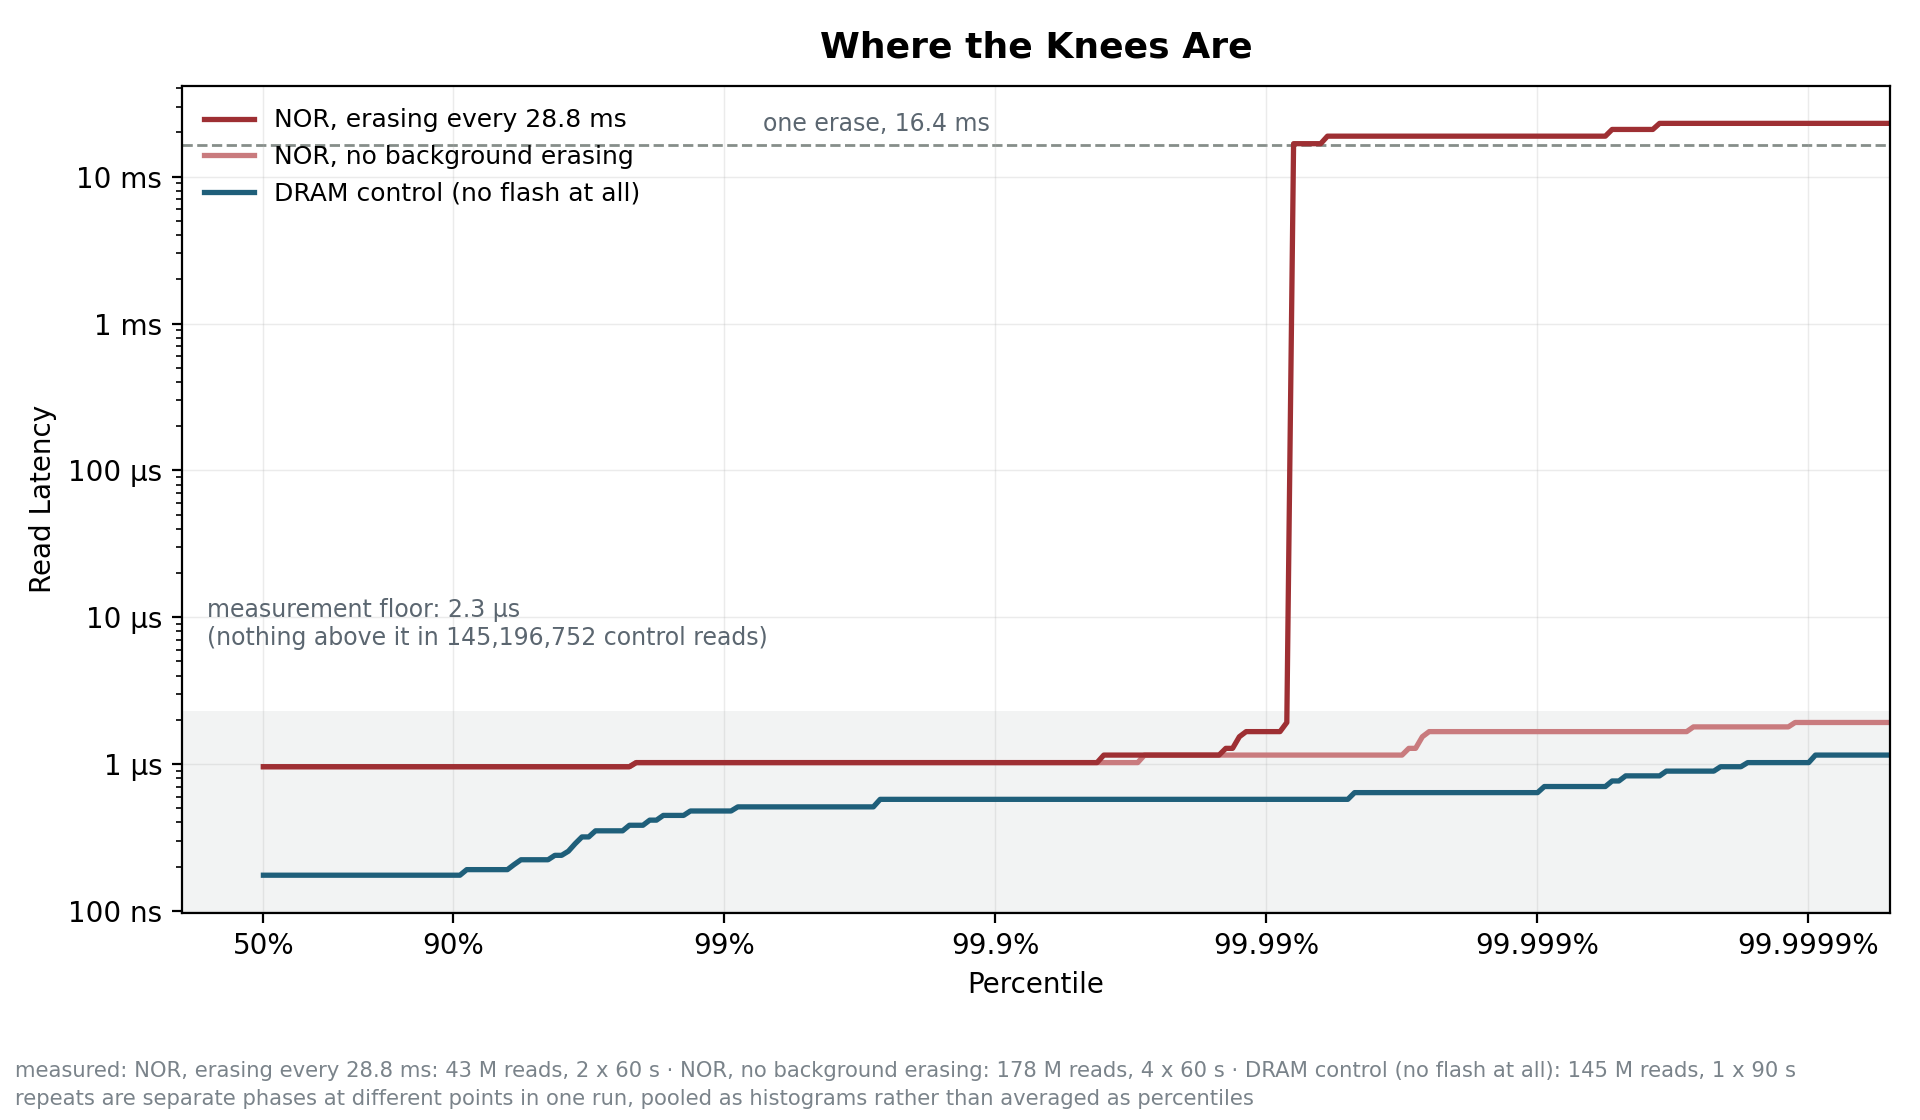
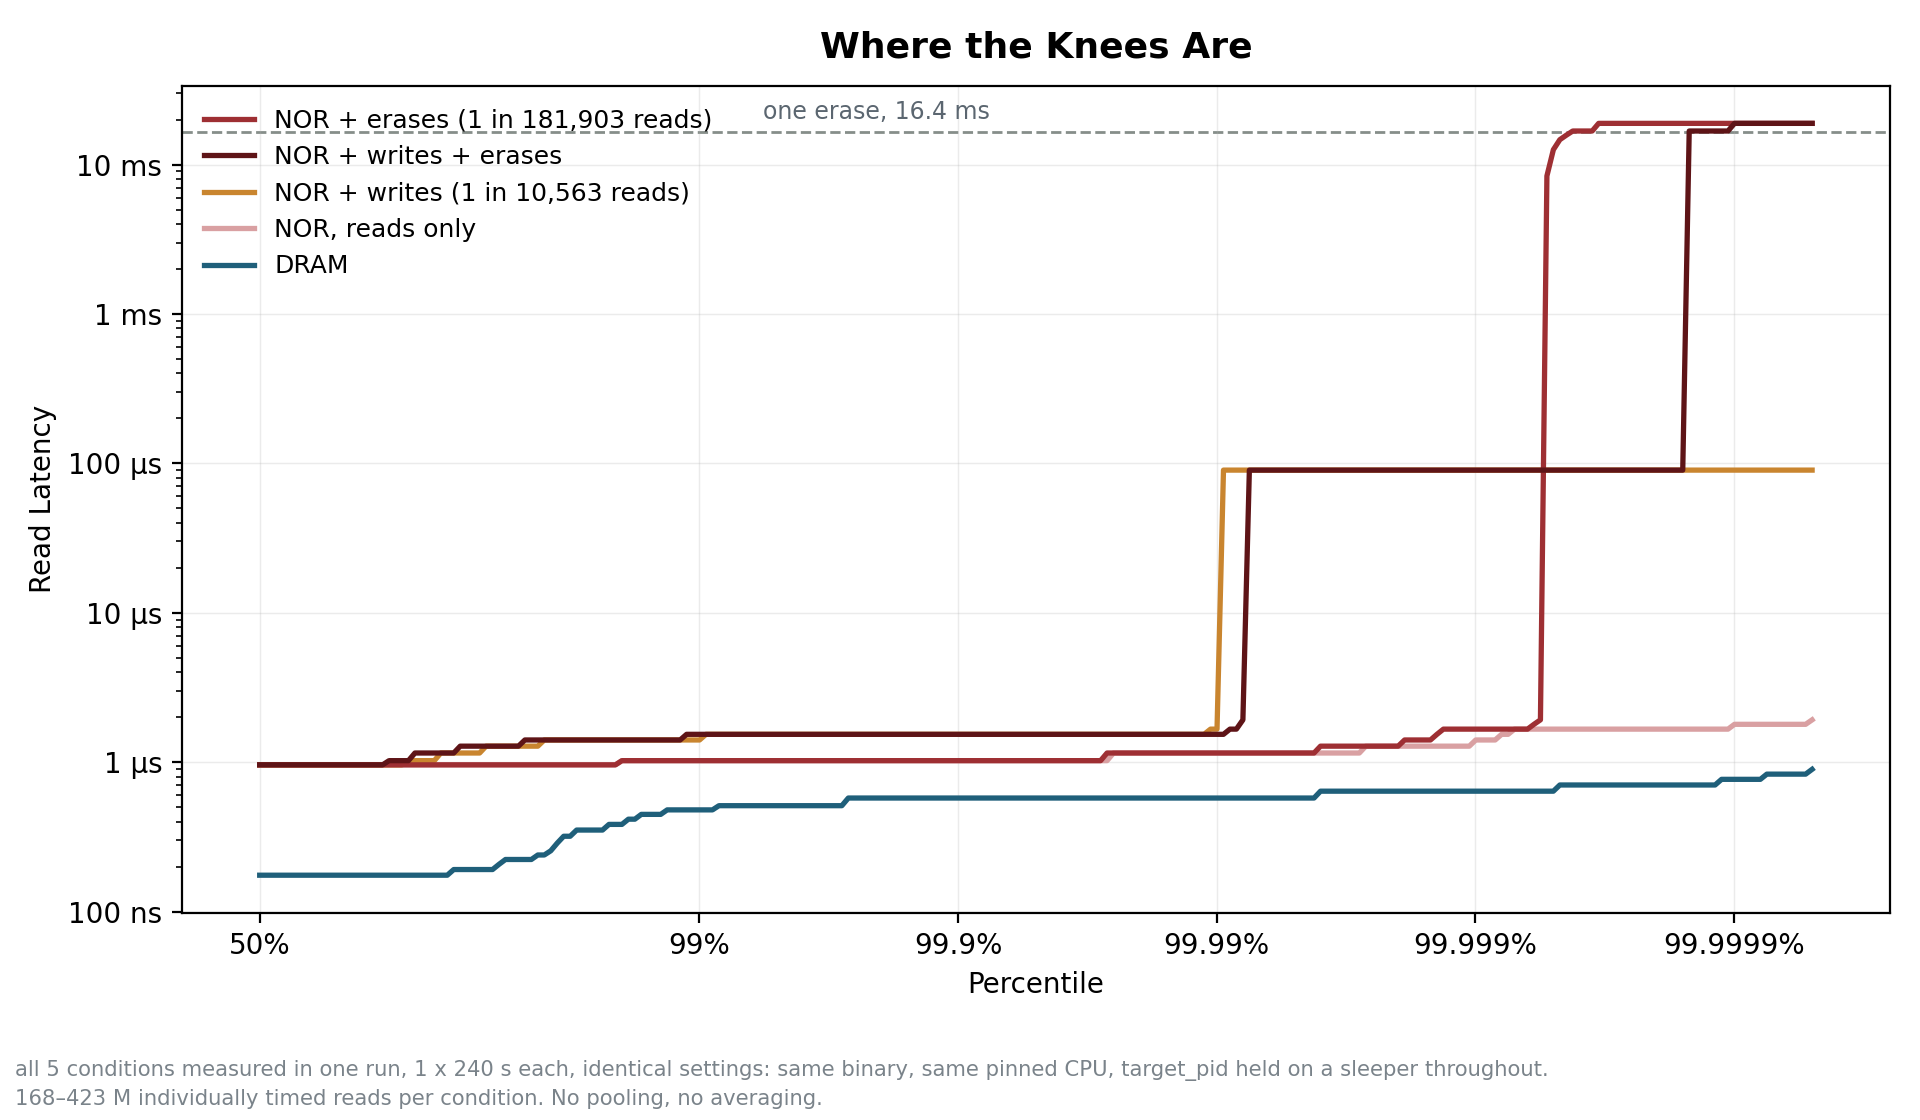
fig9/9b: five conditions, and the model they reveal
condition            p50    p99.99  p99.999  p99.9999      max
  DRAM              175 ns    575 ns   639 ns    767 ns   2.3 us
  NOR reads only    959 ns    1.2 us   1.4 us    1.8 us   2.8 us
  NOR + writes      959 ns    1.7 us  90.1 us   90.1 us  98.3 us
  NOR + erases      959 ns    1.2 us   1.7 us   18.9 ms  23.1 ms
  NOR + both        959 ns    1.5 us  90.1 us   16.8 ms  23.1 ms

Two rules, and between them they explain every number above.

WHERE a knee appears is how often the operation happens. Writes at 1 in 10,563
surface at p99.99; erases at 1 in 181,903 not until p99.9999. Same device, and
the erase knee is later purely because 30 ms spacing makes erases 17x rarer
than writes in this configuration.

HOW HIGH it goes is the uninterruptible unit. A 4 KiB program is 16 x 256 B
chunks: 1.13 ms measured, 70.6 us per chunk, and a concurrent read waits
90.1 us -- one chunk, not the page. It gets through between chunks. An erase
has no such granularity, so the read waits all 22.3 ms of it. That is the
entire asymmetry between 8% and 100% interference, and it comes from the
device programming granularity rather than from anything in the policy.

Colour is now intensity within the flash conditions, since all four are the
same medium: palest is quiet flash, darkest is writing and erasing together.

diff --git a/scripts/plot_selftest.py b/scripts/plot_selftest.py
@@ -541,21 +541,23 @@ if r:
     # -- which is NOR -- wore the DRAM blue. Both NOR conditions are now shades
     # of the NOR red, DRAM is the DRAM blue, and the difference between the two
     # NOR curves is what the engine is doing, not what the medium is.
-    NOR_QUIET = "#C97B7E"          # NOR, nothing erasing
-    LABEL = {"dram_control":    (C_DRAM,    "DRAM control (no flash at all)"),
-             "engine_off":      (NOR_QUIET, "NOR, no background erasing"),
-             # Period, not rate: it is the knob, and the rate is the
-             # consequence. 2,080 erases in 60 s = one every 28.8 ms, of which
-             # 22.3 ms is the erase itself. NOT the 30 ms erase_poll_ms
-             # spacing -- that branch only applies when target_pid is attached,
-             # and it was cleared for these phases, so this is the unpaced case.
-             "erasing":         (C_NOR,     "NOR, erasing every 28.8 ms"),
+    # All four flash conditions are the same medium, so intensity carries what
+    # the device is doing rather than colour carrying which device it is:
+    # lightest is quiet flash, darkest is writing and erasing together. DRAM
+    # keeps the DRAM blue.
+    LABEL = {"dram":            (C_DRAM,    "DRAM"),
+             "dram_control":    (C_DRAM,    "DRAM control (no flash at all)"),
+             "nor_read":        ("#D9A0A2", "NOR, reads only"),
+             "engine_off":      ("#D9A0A2", "NOR, no background erasing"),
+             "nor_write":       ("#C9852F", "NOR + writes (1 in 10,563 reads)"),
+             "nor_erase":       ("#9E2F33", "NOR + erases (1 in 181,903 reads)"),
+             "erasing":         ("#9E2F33", "NOR, erasing every 28.8 ms"),
+             "nor_write_erase": ("#5E1417", "NOR + writes + erases"),
              "engine_spaced":   (C_NOR,     "NOR, erasing at 7.2/s (30 ms spacing)"),
-             "engine_normal":   (C_NOR,     "NOR, erasing (module defaults)"),
-             "engine_on":       (C_NOR,     "NOR, erasing (module defaults)"),
              "engine_flat_out": ("#7A1F22", "NOR, erasing unspaced at 33.9/s")}
-    order = ["dram_control", "engine_off", "erasing", "engine_spaced",
-             "engine_normal", "engine_on", "engine_flat_out"]
+    order = ["dram", "dram_control", "nor_read", "engine_off",
+             "nor_write", "nor_erase", "erasing", "nor_write_erase",
+             "engine_spaced", "engine_normal", "engine_on", "engine_flat_out"]
     present = [c for c in order if any(x["condition"] == c for x in r)]
     present += sorted({x["condition"] for x in r} - set(order))
     # engine_flat_out is omitted from the figures on purpose. The watermarks
@@ -573,12 +575,12 @@ if r:
     # real, but it is not an operating point the system runs in, because the
     # 30 ms reader spacing is only disabled by clearing target_pid, which is a
     # measurement artefact. Both stay in qos.csv.
-    HIDE = {"engine_normal", "engine_flat_out"}
+    HIDE = {"engine_normal", "engine_flat_out", "engine_on"}
     have = [(c,) + LABEL.get(c, (C_MODEL, c.replace("_", " "))) for c in present
             if hist(c) and c not in HIDE]
     if have:
-        QS = [(0.50, "p50"), (0.99, "p99"), (0.999, "p99.9"),
-              (0.9999, "p99.99"), (0.99999, "p99.999"), (1.0, "max")]
+        QS = [(0.50, "p50"), (0.99, "p99"), (0.999, "p99.9"), (0.9999, "p99.99"),
+              (0.99999, "p99.999"), (0.999999, "p99.9999"), (1.0, "max")]
         # Same bars, log x. Linear was honest but spent 99% of its width on
         # the tail, so every percentile below p99.999 was a sliver against the
         # axis. Log gives 1 us and 34 ms room on the same picture; the table
@@ -644,8 +646,8 @@ if r:
         # a class of event with its own characteristic cost -- so the shape
         # says how many distinct things are going on, not just how bad it gets.
         fig2, ax2 = plt.subplots(figsize=(9.6, 5.6))
-        NINES = [(0.5, "50%"), (0.9, "90%"), (0.99, "99%"), (0.999, "99.9%"),
-                 (0.9999, "99.99%"), (0.99999, "99.999%"), (0.999999, "99.9999%")]
+        NINES = [(0.5, "50%"), (0.99, "99%"), (0.999, "99.9%"), (0.9999, "99.99%"),
+                 (0.99999, "99.999%"), (0.999999, "99.9999%"), (0.9999999, "99.99999%")]
         def nines(q): return -__import__("math").log10(1.0 - q)
         for cond, colour, label in have:
             n = sum(c for _, c in hist(cond))
@@ -686,23 +688,23 @@ if r:
         ax2.set_xticklabels([lab for _, lab in NINES])
         ax2.set_yticks([1e2, 1e3, 1e4, 1e5, 1e6, 1e7])
         ax2.set_yticklabels(["100 ns", "1 \u00b5s", "10 \u00b5s", "100 \u00b5s", "1 ms", "10 ms"])
-        ax2.set_xlim(0, nines(0.9999995))
+        ax2.set_xlim(0, nines(0.99999975))
         frame(ax2, "Where the Knees Are", "Percentile", "Read Latency")
         legend_by_last(ax2, fontsize=9, frameon=False, loc="upper left")
         # Provenance, because "how was this measured" should not require
         # reading a commit message. n is the pooled read count; repeats are
         # separate 60 s phases at different positions in the run, summed as
         # histograms rather than averaged as percentiles.
-        prov = []
-        for cond, _, label in sorted(have, key=lambda c: -pct(c[0], 1.0)):
-            nn = sum(c for _, c in hist(cond))
-            reps = {"engine_off": "4 x 60 s", "erasing": "2 x 60 s"}.get(cond, "1 x 90 s")
-            prov.append(f"{label}: {nn/1e6:.0f} M reads, {reps}")
+        # When every condition was measured the same way, say that once rather
+        # than repeating it per curve and running off the edge.
+        ns = sorted(sum(c for _, c in hist(c0)) for c0, _, _ in have)
+        reps = sorted({"1 x 240 s" for _ in have})
         fig2.tight_layout()
         fig2.text(0.008, 0.010,
-                  "measured: " + " \u00b7 ".join(prov)
-                  + "\nrepeats are separate phases at different points in one run, pooled as"
-                    " histograms rather than averaged as percentiles",
+                  f"all {len(have)} conditions measured in one run, {reps[0]} each, identical settings: "
+                  f"same binary, same pinned CPU, target_pid held on a sleeper throughout.\n"
+                  f"{ns[0]/1e6:.0f}\u2013{ns[-1]/1e6:.0f} M individually timed reads per condition. "
+                  f"No pooling, no averaging.",
                   fontsize=7.6, color="#7A838A", va="bottom", linespacing=1.5)
         fig2.subplots_adjust(bottom=0.185)
         fig2.savefig(f"{OUT}/fig9b-quantiles.png", dpi=200)
